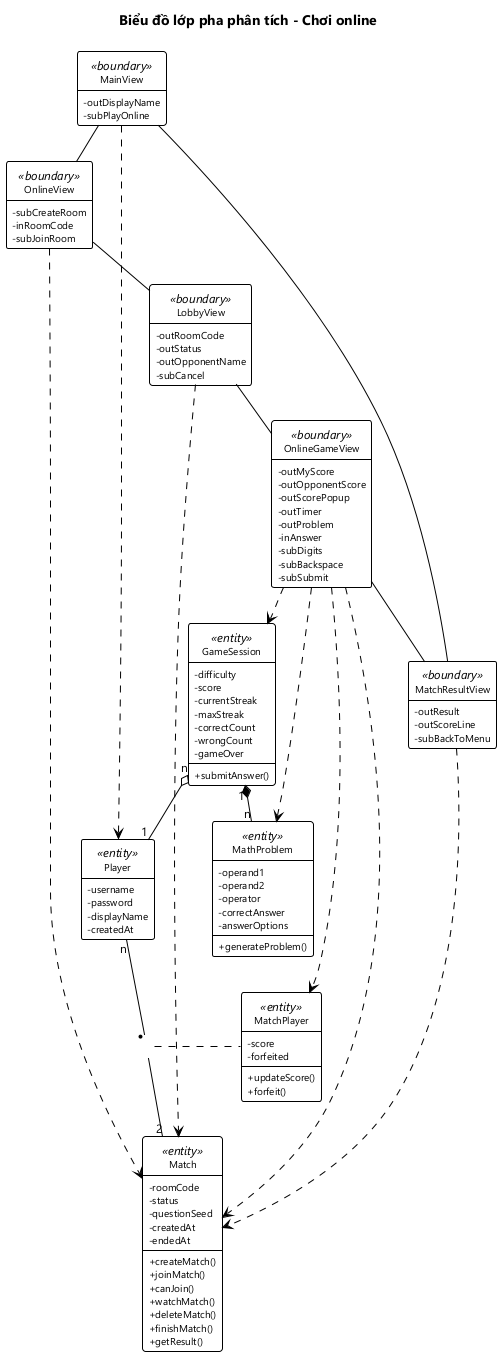
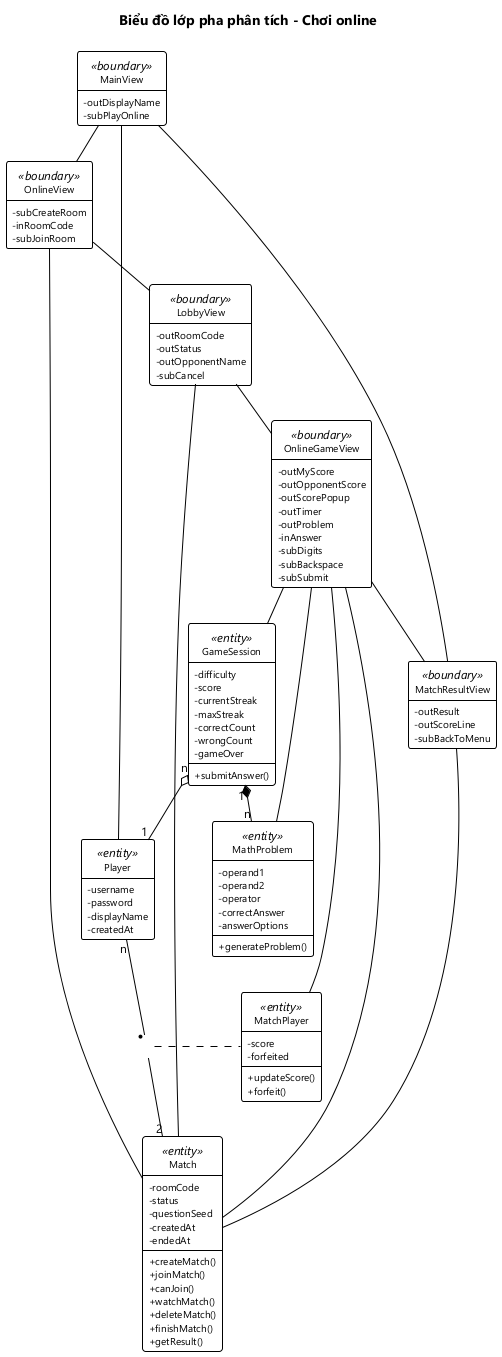
docs(M3-05,M4-01): biểu đồ lớp nối boundary, control, entity bằng liên kết thay cho mũi tên phụ thuộc

diff --git a/REPORT_CONVENTION.md b/REPORT_CONVENTION.md
@@ -137,7 +137,7 @@ Gồm **lớp View + lớp thực thể liên quan**. Làm theo 4 bước:
    4. Gán cho lớp nào?
       - Đầu ra là lớp thực thể nào thì gán vào lớp đó.
       - Nếu không, xét đầu vào: chỉ thuộc một lớp thực thể thì gán vào lớp đó; thuộc nhiều lớp thì gán vào lớp chứa được tất cả đầu vào.
-4. **Vẽ biểu đồ lớp** cho chức năng. Hai lớp View nối nhau bằng **liên kết (association)**.
+4. **Vẽ biểu đồ lớp** cho chức năng. View – View và View – thực thể đều nối bằng **liên kết (association)**, không vẽ mũi tên.
 
 Pha phân tích chưa có kiểu dữ liệu, chưa có DAO, Controller, Activity, REST.
 
@@ -215,6 +215,7 @@ Vẽ thành cây như `ISSUES_PLAN.md` mục 2.4.
 
 **Quan hệ của lớp giao diện (phần app):**
 - Boundary nối boundary bằng **liên kết (association)**: Activity – Activity, Activity – Adapter, Adapter – ViewHolder.
+- Boundary – control (Activity – Controller, Activity – DAO), control – control và control – entity cũng nối bằng **liên kết**, không vẽ mũi tên phụ thuộc. Chỉ giữ ký hiệu riêng cho kế thừa, thực thi interface, kết tập và hợp thành.
 - **Mỗi Activity nối với một lớp layout** đặt tên đúng tên file, ví dụ `activity_main.xml`. Lớp này để **rỗng**.
 - Activity **giữ thực thể làm thuộc tính** (ví dụ `me : Player`) thì nối bằng **kết tập (aggregation)**, hình thoi ở phía Activity: `Player --<> OnlineGameActivity`. Cách đọc giống `KhachHang --<> HoaDon`: hóa đơn chứa thông tin khách hàng nên hình thoi ở phía hóa đơn.
 
@@ -225,9 +226,9 @@ Vẽ thành cây như `ISSUES_PLAN.md` mục 2.4.
 - Server, MySQL: `DAO` (giữ `Connection conn`) ← `PlayerDAO`, `MatchDAO`.
 
 **Chức năng có gọi server (REST)** vẽ thành **2 package** trên cùng một biểu đồ:
-- **"Client (Android)"**: boundary → control (Controller, `XxxApiDAO`) → entity.
-- **"Server (Spring Boot)"**: `XxxRestController` → `XxxDAO extends DAO` → entity. Không có tầng Service.
-- Hai package nối nhau bằng **đúng một mũi tên** từ `XxxApiDAO` tới `XxxRestController`, ghi `HTTP/JSON`.
+- **"Client (Android)"**: boundary – control (Controller, `XxxApiDAO`) – entity.
+- **"Server (Spring Boot)"**: `XxxRestController` – `XxxDAO extends DAO` – entity. Không có tầng Service.
+- Hai package nối nhau bằng **đúng một đường liên kết** giữa `XxxApiDAO` và `XxxRestController`, ghi `HTTP/JSON`.
 - Không vẽ lớp của framework (Spring, Firebase SDK, `HttpURLConnection`); chỉ ghi chúng làm kiểu dữ liệu của thuộc tính.
 
 Chức năng chỉ chạy trên app (Chơi offline, Cài đặt cấu hình game) vẽ một package như bài mẫu.

diff --git a/ISSUES_PLAN.md b/ISSUES_PLAN.md
@@ -688,7 +688,7 @@ Lớp thực thể đã có ở M1-02; thiếu lớp thì mở PR bổ sung tài
       - Boundary: `MatchRestController`.
       - Control: `DAO` ← `MatchDAO`; `FirebaseAdminDAO`.
       - Entity: `Match`, `MatchPlayer`, `Player`.
-    - Nối 2 package bằng một mũi tên `HTTP/JSON` từ `MatchApiDAO` tới `MatchRestController`.
+    - Nối 2 package bằng một đường liên kết `HTTP/JSON` giữa `MatchApiDAO` và `MatchRestController`.
   - **Mô tả từng lớp 1–2 dòng.**
 - **Requirement:** Mỗi View ở M3-03 ánh xạ sang đúng một Activity hoặc overlay; tên lớp, hàm, API trùng với code.
 - **Constraint:** Không vẽ lớp của framework (Spring, Firebase SDK) ngoài kiểu dữ liệu của thuộc tính.

diff --git a/docs/hung/2-lop-phan-tich.md b/docs/hung/2-lop-phan-tich.md
@@ -41,7 +41,7 @@ Không đề xuất lớp View cho:
 *Hình 6: Biểu đồ lớp pha phân tích chức năng Chơi online.*
 
 - **5 lớp View** nối nhau bằng quan hệ liên kết theo luồng màn hình: `MainView` – `OnlineView` – `LobbyView` – `OnlineGameView` – `MatchResultView` – quay về `MainView`.
-- **Mũi tên nét đứt** từ View tới lớp thực thể cho biết View đó gọi phương thức nào. `OnlineGameView` dùng nhiều thực thể nhất:
+- Mỗi View nối với lớp thực thể nó gọi phương thức bằng **quan hệ liên kết**. `OnlineGameView` dùng nhiều thực thể nhất:
   - `MathProblem`: sinh câu hỏi.
   - `GameSession`: chấm điểm.
   - `MatchPlayer`: gửi điểm, thoát trận.
